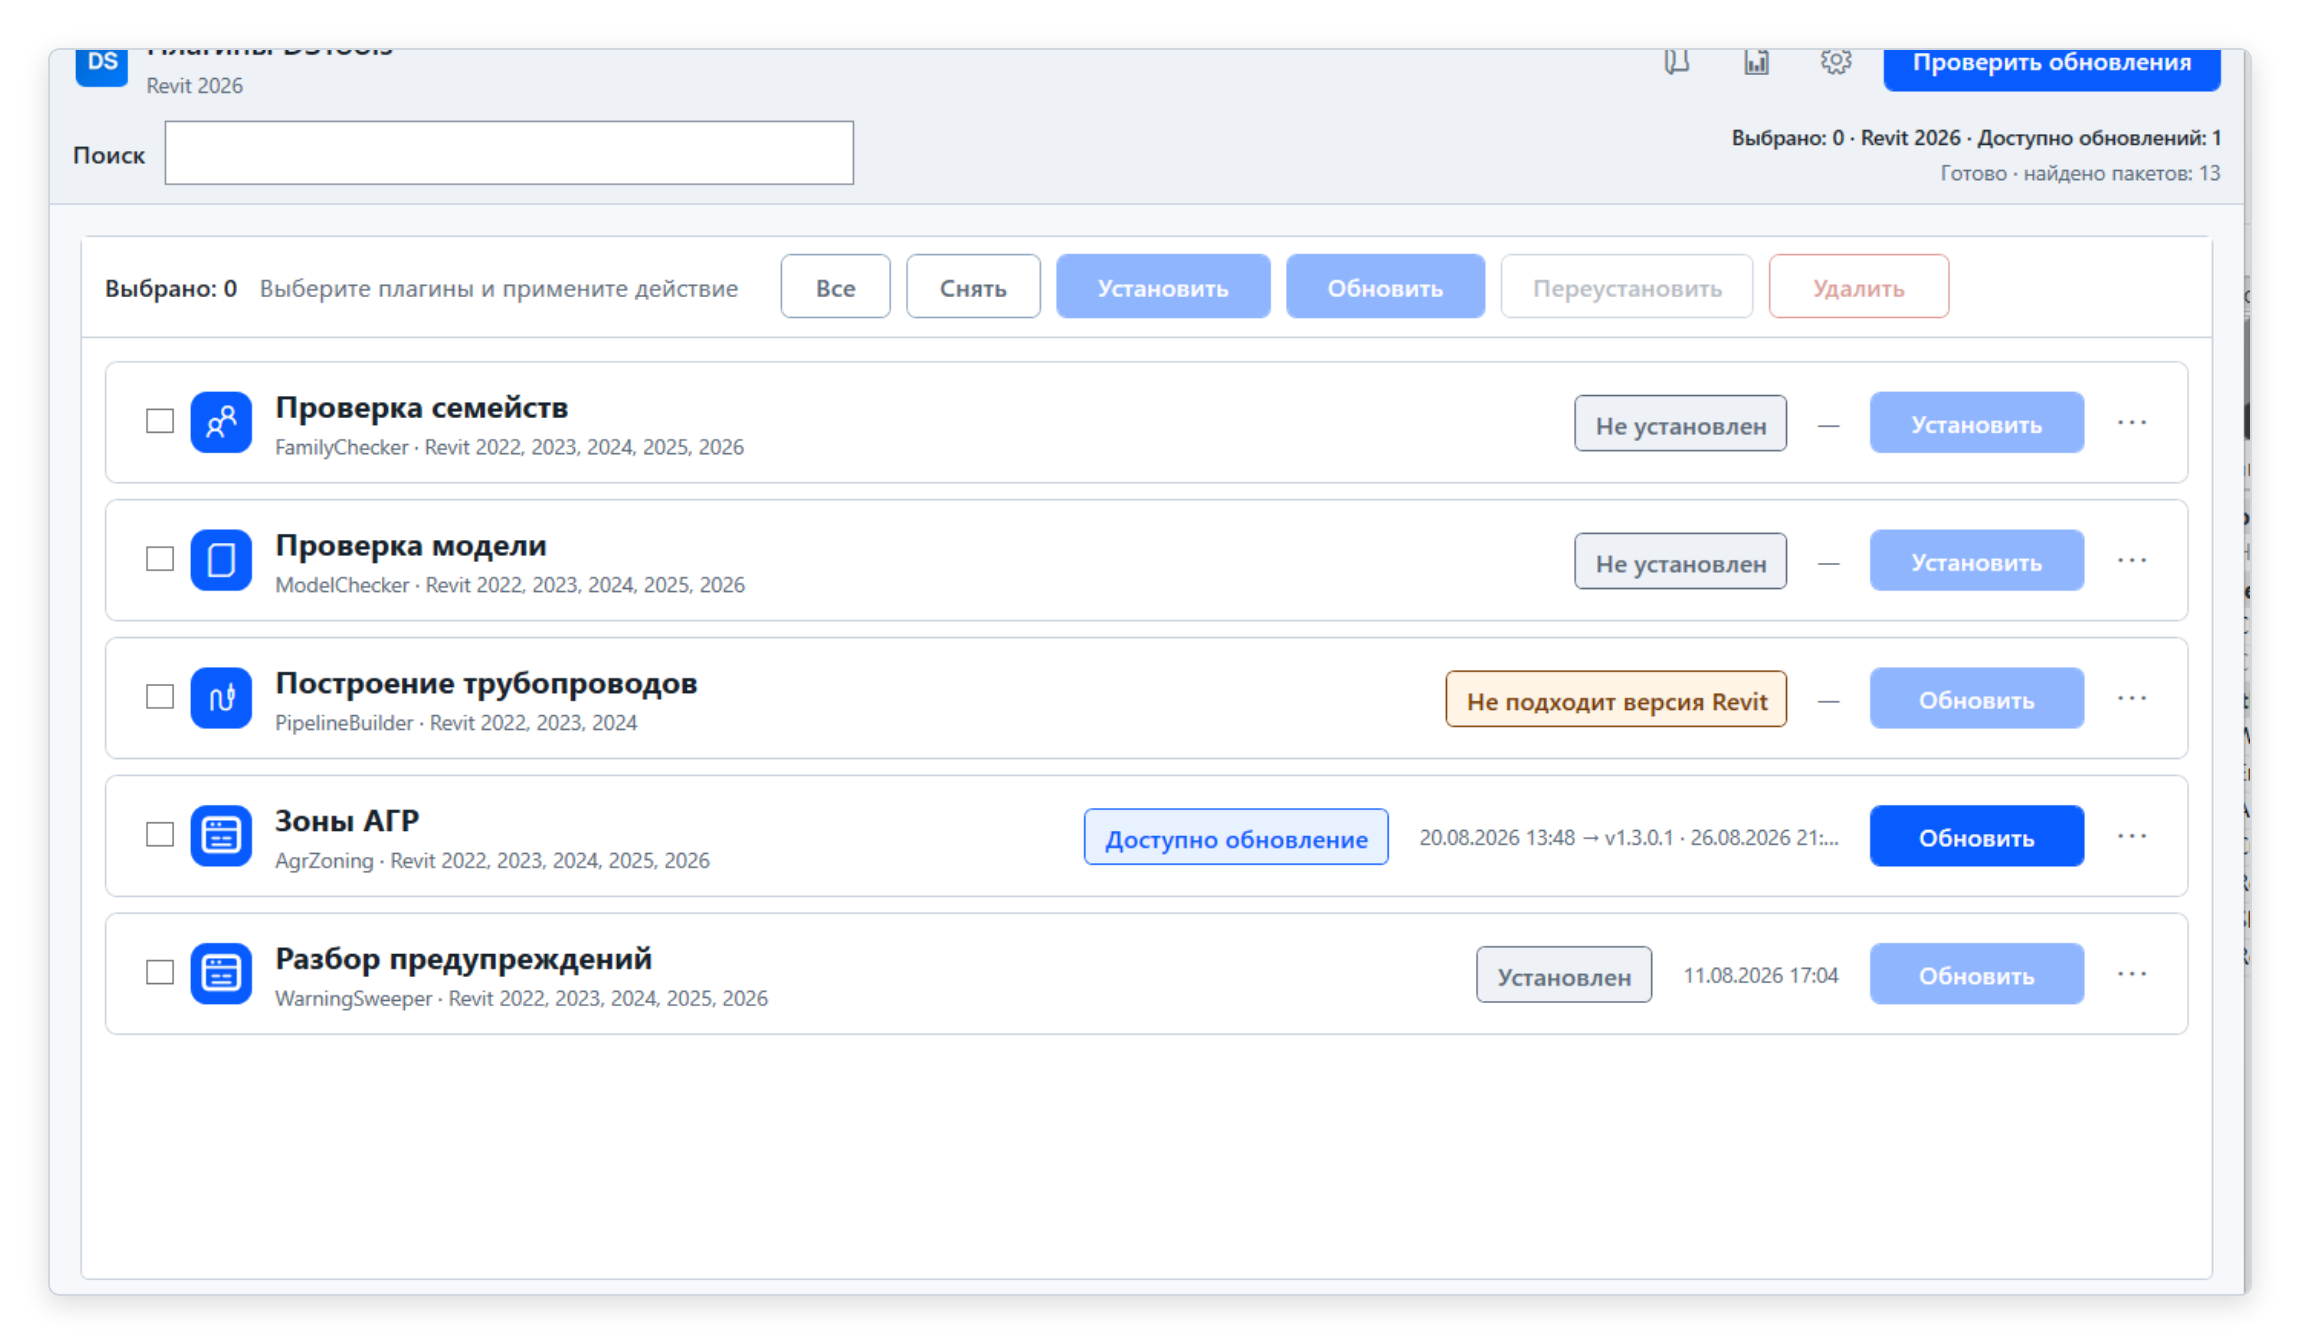
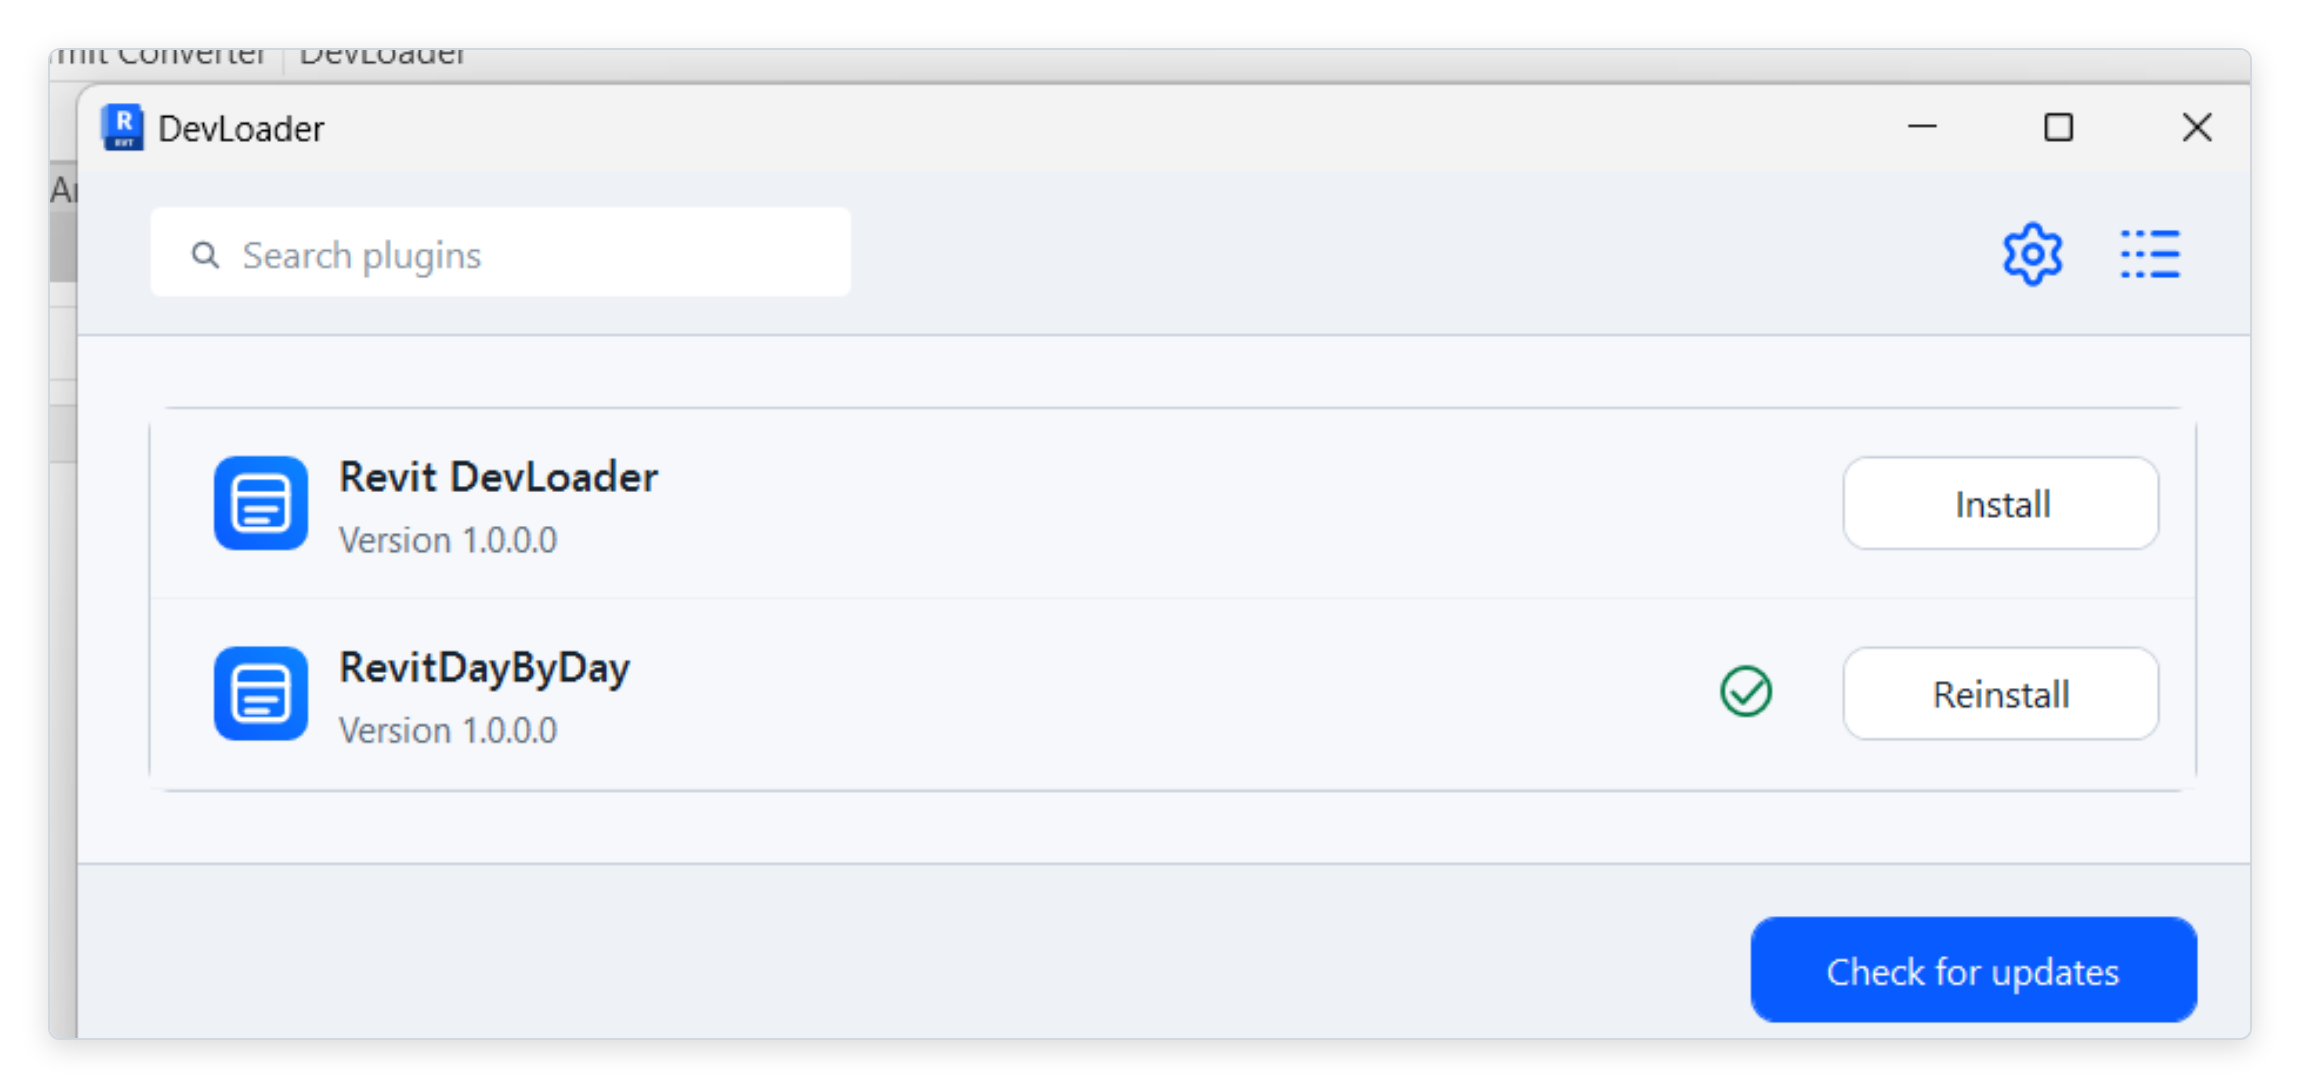
docs: install recording and English catalog screenshot from Revit 2026

diff --git a/README.md b/README.md
@@ -19,13 +19,14 @@ GitHub Releases can serve private feeds through the locally authenticated GitHub
 
 ## In action
 
+<img alt="DevLoader inside Revit 2026: the catalog lists two payloads from a GitHub Releases feed, RevitDayByDay is installed with one click and shows as installed" src="docs/screenshots/revit-devloader_install.gif" width="100%">
+
+Recorded in Revit 2026 on 2026-09-11 against the demo feed published as a GitHub Release of this repository: open the catalog from the Add-Ins tab, install a payload, and the row turns to installed with a reinstall option. Application payloads are picked up by Revit on the next start.
+
 <picture>
   <source media="(prefers-color-scheme: dark)" srcset="docs/screenshots/revit-devloader_catalog_dark.png">
-  <img alt="DevLoader catalog inside Revit 2026: five payloads with installed, update available, not installed and version mismatch states" src="docs/screenshots/revit-devloader_catalog_light.png" width="100%">
+  <img alt="DevLoader catalog in Revit 2026 with one payload installed" src="docs/screenshots/revit-devloader_catalog_light.png" width="100%">
 </picture>
-
-Captured in Revit 2026 on 2026-09-11 from the internal build the loader was extracted from, so the labels are still in Russian and carry the previous product name. The catalog reads one feed and shows, per payload, which Revit years it supports and whether it is installed, outdated or incompatible with the running Revit.
-
 
 ## Quick start
 
